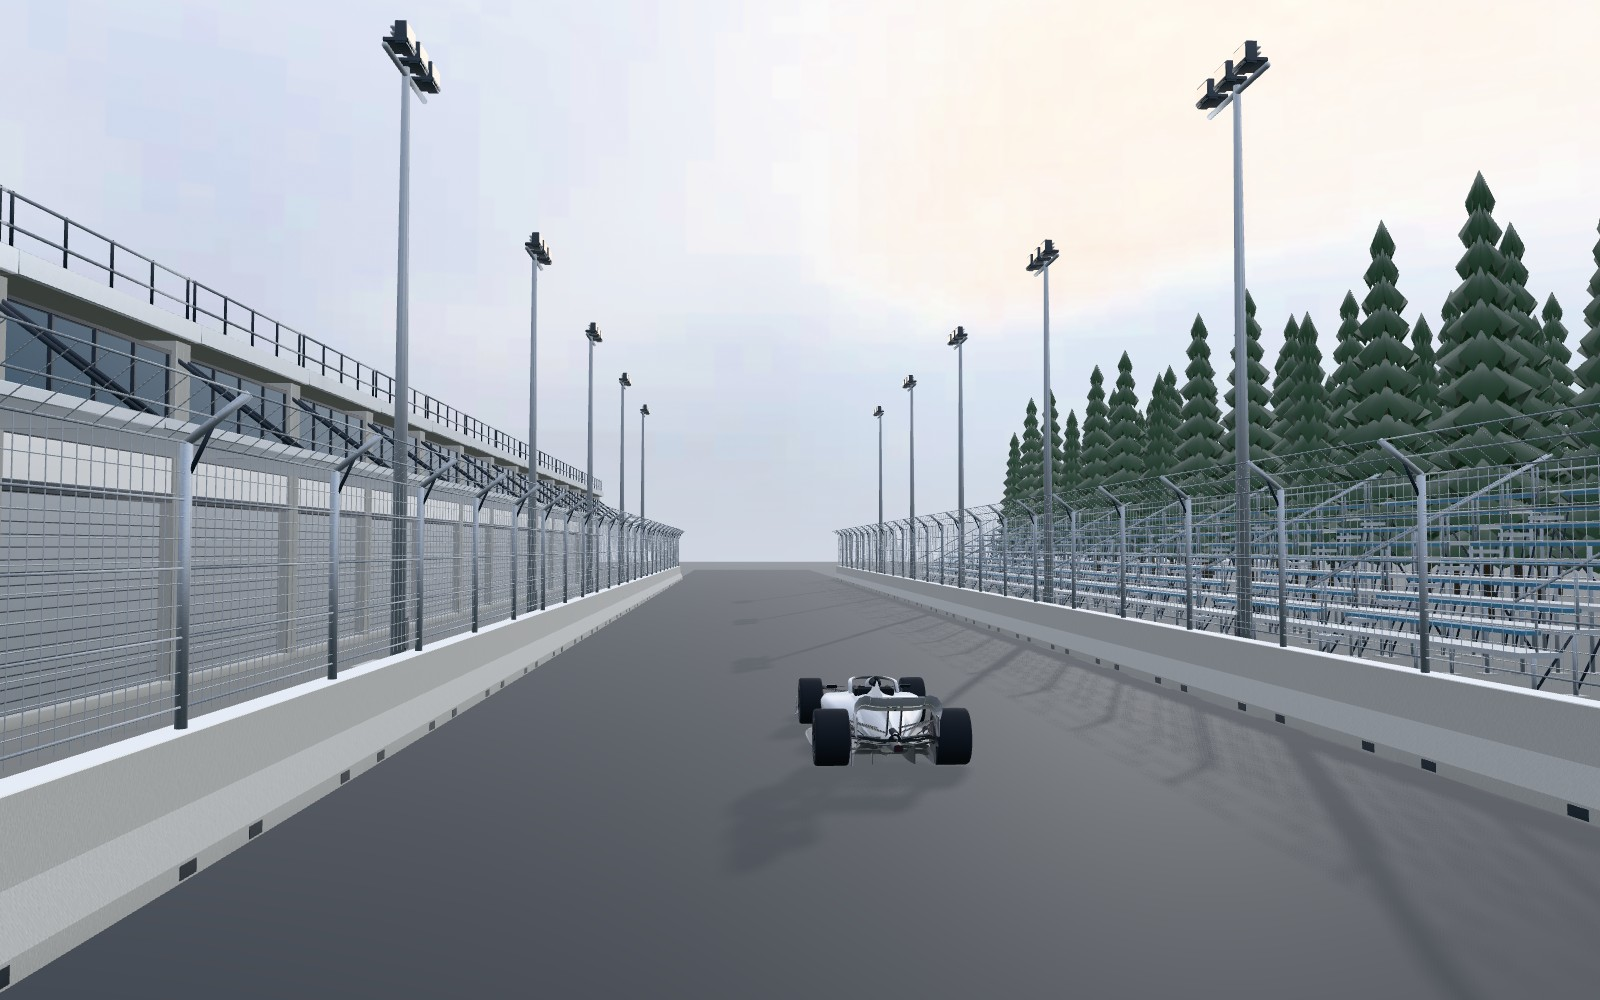
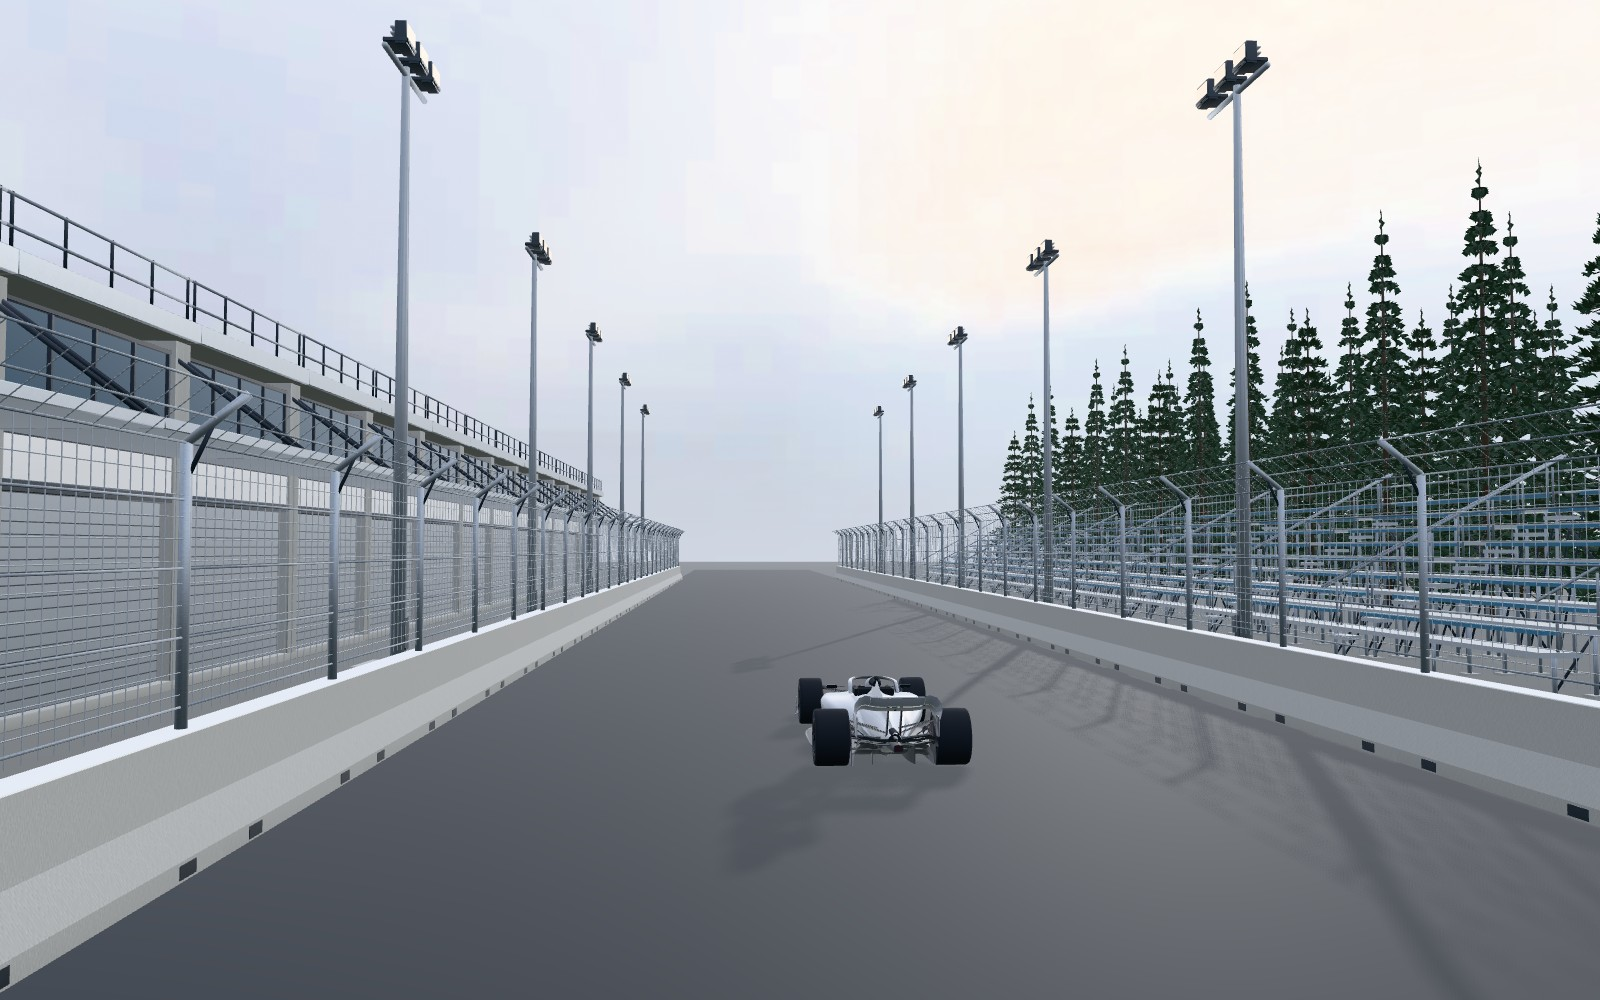
Refresh the forest evidence and kit sizes after the final export
Regenerate the sheets, transition record, forest assembly and transfer
reservation from the shipped files, describe the full-revolution gate,
and document the 1.2 kB catalogue overhead Monza carries.

Changed region(s): [[0.5625, 0.155, 1.0, 0.713]]

diff --git a/docs/circuit-model-kits.md b/docs/circuit-model-kits.md
@@ -14,12 +14,14 @@ Twelve original scripted props, each with High / Mobile / Far LODs. All sizes be
 | marina-hotel | 752 / 624 / 516 | 14620 / 11412 / 10724 |
 | marina-pavilion | 336 / 208 / 208 | 12352 / 9480 / 9464 |
 | hill-pit-garage | 1448 / 696 / 444 | 36808 / 19064 / 16040 |
-| forest-spruce | 7062 / 3254 / 40 | 255412 / 117228 / 39072 |
-| forest-fir | 5540 / 2564 / 40 | 206648 / 97712 / 37356 |
+| forest-spruce | 7062 / 3254 / 40 | 255412 / 117228 / 181136 |
+| forest-fir | 5540 / 2564 / 40 | 206648 / 97712 / 177272 |
 
-New kit: 1,148,792 bytes across all LODs. Complete catalogue: 3,571,312 bytes, below the existing 4,000,000 byte cap.
+New kit: 1,430,772 bytes across all LODs. Complete catalogue: 3,853,292 bytes, below the existing 4,000,000 byte cap. The Far trees carry two lossless 1152 × 384 atlases each (see Integration notes); that is where the extra 282 kB over the earlier lossy cards goes.
 
-The production build reports 8.87 MiB for the existing High first race and 3.69 MiB on Mobile. `kit-budget.json` reserves every new LOD plus both circuits’ skies at both tiers on top of that baseline: High 10.08 MiB, Mobile 4.90 MiB. This is a conservative model-asset allowance, not measured integrated Spa/Singapore traffic. Terrain, placement, light layout and circuit request telemetry remain with dressing.
+The production build reports 8.89 MiB for the existing High first race and 3.71 MiB on Mobile. `kit-budget.json` reserves every new LOD plus both circuits’ skies at both tiers on top of that baseline: High 10.37 MiB, Mobile 5.20 MiB, against 25 MB. This is a conservative model-asset allowance, not measured integrated Spa/Singapore traffic. Terrain, placement, light layout and circuit request telemetry remain with dressing.
+
+Monza loads none of these props, but it does pay for their catalogue entries: `props.catalog.json` is bundled into the client, and the twelve new entries add metadata only. Paired builds that swap only the catalogue measured +1,201 bytes of first-race transfer on both High (9,296,406 → 9,297,607) and Mobile (3,871,600 → 3,872,801), with identical prop inventories and prop bytes. Gzipped, the minified catalogue grows from 3,583 to 4,899 bytes. If Monza ever has to add zero bytes, split the catalogue per circuit; at this size it is not worth a second fetch.
 
 ## Evidence and reproduction
 
@@ -27,15 +29,16 @@ The production build reports 8.87 MiB for the existing High first race and 3.69 
 - `<id>-scale.jpg`: the unscaled 5.6 m car alongside every prop.
 - `kit-forest.jpg`: overcast inspection assembly; `kit-marina.jpg`: night inspection assembly. These are preview placements, using the game Environment, rather than circuit dressing.
 - `*-night.jpg`: floodlight/truss and marina sheets and car-scale frames under the night environment with a track-light preview key.
-- `forest-luma.json`: isolated swap-on/off material response at three azimuths. Fog, background and shadows are disabled only for this diagnostic. The capture fails above a 15% High/Far mean luma delta (measured 4.5–13.4%); normal evidence retains shadows.
-- `forest-transition.json` and `forest-<id>-transition.jpg`: High, Mobile and Far from the same camera at 0°, 30° and 60° (High | Mobile | Far | Mobile against Far: red Mobile only, blue Far only, white both), with mean luma, silhouette coverage and silhouette IoU. The capture fails if Mobile/Far coverage leaves 0.85–1.2 or either IoU drops below 0.6 (measured: coverage 1.04–1.12, IoU 0.62–0.77, lowest at 30° between card planes).
+- `forest-sweep.json`, `forest-<id>-<light>-worst-tone.jpg`: the High/Far tone gate. Each tree is isolated against black (fog, ground and shadow maps off, so only the material and normal response is measured) and turned through a full revolution in 30° steps under overcast, afternoon sun and the night preview key; mean silhouette luma of High and Far from the same camera must stay within 15% at every one of the 72 samples. Measured worst cases: spruce 5.8% / 8.9% / 10.2%, fir 10.8% / 10.4% / 11.2% (overcast / afternoon / night). The record hashes the shipped Far GLBs, and `forest-lighting.test.mjs` rejects it if they change. `forest-luma.json` repeats the overcast revolution from the preview capture.
+- `forest-<id>-<light>-distances.jpg`: High | Mobile | Far in the full scene (sky, fog, shadows) from a 1.5 m eye at 50 m (top row) and 260 m (bottom row), at that light's worst azimuth.
+- `forest-transition.json` and `forest-<id>-transition.jpg`: High, Mobile and Far from the same camera at 0°, 30° and 60° (High | Mobile | Far | Mobile against Far: red Mobile only, blue Far only, white both), with mean luma, silhouette coverage and silhouette IoU. The capture fails if Mobile/Far coverage leaves 0.85–1.2 or either IoU drops below 0.6 (measured: coverage 0.96–1.02, IoU 0.66–0.81, lowest at 30° between card planes). This 400 × 640 view is not tone-gated. Its luma has Far 4–27% above Mobile, because against the black isolation background the thin needle sprays' partly covered edge pixels pull the near trees' mean down while the cards' alpha-tested edges are hard. In the scene frames above, against sky, the swap is not visible at 260 m, where Far takes over; at 50 m the Far crown reads slightly fuller.
 - `kit-budget.json`: per-LOD counts/sizes and conservative transfer reservation. Run `node tools/props/kit-budget.mjs` after `npm run build`.
 
 Build with `npm run props:build -- --kits-only`. A full `npm run props:build` from an empty props folder (a clean export of this branch) succeeds and reproduces all 36 kit files and every slice 1 file byte for byte, except 23 crew and crowd files, which differ only in vertex order (same vertices, materials and AO, decoded; the documented export nondeterminism of the people). This branch leaves those people files as master has them. Kit meshes are named `<id>-<level>-<material>`, so a kits-only and a full build name them alike. Capture under the shared GPU lock using the commands in `tools/props/README.md`. All captures are inspected before handoff. The preview closes its server and browser in `finally`.
 
 ## Integration notes
 
-Street modules tile in 4 m lengths; place block and fence at the same ground pivot. The terminal post closes the end. Stands tile at 8 m, with eight crowd row attachments. Pit modules retain 6 m spacing and board/crew anchors. Trees are drooping branch tiers of separate needle sprays with gaps, and their Far cards are rasterised from those same triangles: colour with the near foliage's mean baked AO, and a half-resolution tangent-space normal atlas of the covering triangles, so cards shade like the near tree under any light. Keep the cards' own normals and normal map when instancing. The temporary stand's Far LOD keeps its population bounded at 1,552 triangles per 8 m module; crowd rows are attachments, not geometry. Both forest species are conifers, intended for varied forest-edge placements.
+Street modules tile in 4 m lengths; place block and fence at the same ground pivot. The terminal post closes the end. Stands tile at 8 m, with eight crowd row attachments. Pit modules retain 6 m spacing and board/crew anchors. Trees are drooping branch tiers of separate needle sprays with gaps, and their Far cards are projected from the exported High tree (needles with their baked AO, trunk and limbs). Each of the three crossed planes has a separate tile per face, and the card faces export signed tangents. Each tile is rasterised at twice its 192 × 384 resolution and box-filtered, so a texel carries the mean albedo and mean normal that a multisampled pixel of the near tree shows. Normals snap to a 128-direction codebook, and both atlases are lossless WebP; lossy WebP blurred the normals and darkened the cards' shadowed side by up to 43%. The cards therefore shade like the near tree under any light. Keep the cards' own normals and normal map when instancing. The temporary stand's Far LOD keeps its population bounded at 1,552 triangles per 8 m module; crowd rows are attachments, not geometry. Both forest species are conifers, intended for varied forest-edge placements.
 
 Window occupancy is a geometric emissive mask through the named `window-emissive-mask` material. Floodlight anchors expose emitter material and local aim. These emitters need actual local light slots in the night renderer to light the road. Facades are generic backdrops; no real landmarks or brands are reproduced.
 

diff --git a/tools/props/README.md b/tools/props/README.md
@@ -20,17 +20,19 @@ The geometry and dimensions are scripted; byte-identical exports are not guarant
 
 ## Overcast and night circuit kits
 
-`npm run props:build -- --kits-only` regenerates the twelve circuit kit props while preserving the previously shipped props. The normal full build includes both sets. Both paths refresh catalogue measurements and manifest hashes. All new files together are below 0.5 MB; the unchanged complete-kit ceiling is 4 MB.
+`npm run props:build -- --kits-only` regenerates the twelve circuit kit props while preserving the previously shipped props. The normal full build includes both sets. Both paths refresh catalogue measurements and manifest hashes. The generated size report is `docs/evidence/m2-models/kit-budget.json`; the unchanged complete-kit ceiling is 4 MB. Rebuild the report after the final export rather than retaining an older transfer estimate.
 
 - `street-block`, `street-fence`: 4 m tiling along Z. Place both at ground height; the fence socket extends through the 1.15 m block cap. `street-fence-end` closes the final post at the end of a run. Mesh spacing is reduced with LOD, matching the existing catch-fence convention.
 - `floodlight-mast`: 13 m mast, ballast, service hatch, crossarm, three panel housings with rear cooling fins on High. `lighting-truss`: 4 m suspended box truss with two panels and support anchors. Lamp attachments refer to `floodlight-emitter` and provide a downward direction in delivery coordinates; normalize it when constructing local lights. Emission remains stock glTF PBR; it does not illuminate the road by itself.
 - `temporary-grandstand`: 8 m scaffold bay, eight bench rows, stair aisle, guards, sole plates and bracing. Row attachments give count/spacing and seat contact height using the existing crowd contract.
 - `marina-office`, `marina-hotel`, `marina-pavilion`: generic 7/9/2-storey backdrops, no real landmarks. Window occupancy is a deterministic geometric mask: lit panes use `window-emissive-mask`, dark panes use glazing. This avoids a new runtime shader or texture fetch. Keep these at backdrop distance.
 - `hill-pit-garage`: 6 m bay with the existing garage, board and crew anchors, a deeper stayed canopy, cool cladding and a service roof volume.
-- `forest-spruce`, `forest-fir`: 18/15 m trees. Near and Mobile use irregular needle-bough geometry; Far uses two crossed alpha-tested 256 px impostor cards. Atlas colour is physical albedo, without baked sunlight. Preserve alpha cutoff, vertex AO and the authored crown normals. Near foliage is double sided; the cards use explicit opposing faces so backface normal inversion does not darken the canopy. Far is 36 triangles including the trunk. Trees should vary in yaw/scale when placed.
+- `forest-spruce`, `forest-fir`: 18/15 m trees. Near and Mobile use irregular needle-bough geometry; Far uses three crossed alpha-tested planes, with separate 192 × 384 atlas tiles for all six opposing faces, rasterised at 2× and box-filtered. Atlas colour is physical albedo with the High tree's baked AO, without baked sunlight. Both atlases ship as lossless WebP, with normals on a 128-direction codebook; do not re-encode them lossy, since that darkens the shadowed side by up to 43%. Preserve alpha cutoff and the exported signed tangents and normal atlas. Near foliage is double sided; the cards use explicit opposing faces so backface normal inversion does not darken the canopy. Far is 40 triangles including the trunk. Trees should vary in yaw/scale when placed.
 
 `PROP_LIGHT=overcast PROP_ASSEMBLY=forest flock ~/.cache/undercut/gpu.lock npm run props:preview -- street-,floodlight-,lighting-,temporary-,marina-,hill-,forest-` captures sheets (High above Far, four rotations) and an inspection assembly with the game Environment. Set `PROP_LIGHT=night PROP_ASSEMBLY=marina` for night evidence; its preview key represents track floodlighting. Scale frames include the unscaled car. No preview placements enter game world data.
 
 `node tools/props/kit-budget.mjs` after `npm run build` records per-prop triangles/bytes and a conservative High/Mobile transfer reservation in `docs/evidence/m2-models/kit-budget.json`. It includes every new LOD and both sky tiers on top of the existing first race. Actual Spa/Singapore request telemetry awaits the dressing integration.
 
-The forest luma check isolates each tree against black at three azimuths, with fog, ground and shadow maps disabled to measure material/normal response without background contamination or shadow cascade differences. It compares mean silhouette luma of High and Far at identical camera positions and fails above a 25% change. Normal scene captures retain shadows. The shader remains stock PBR, so sky/time changes still relight both levels.
+The forest luma check isolates each tree against black through a complete revolution in 30° steps under overcast, afternoon sun and the night preview key, with fog, ground and shadow maps disabled to measure material/normal response without background contamination or shadow cascade differences. It compares mean silhouette luma of High and Far at identical camera positions and fails above a 15% change. Normal scene captures retain shadows. The shader remains stock PBR, so sky/time changes still relight both levels.
+
+Run `flock ~/.cache/undercut/gpu.lock node tools/props/sweep.mjs` for the complete lighting gate, worst-angle High/Far frames and High | Mobile | Far trackside frames at 50 m and 260 m. The sweep record hashes the shipped Far GLBs; unit tests reject stale evidence, missing directions, failing samples, wrongly assigned opposing-face tiles, wrong tangent/UV handedness and lossy card atlases. Each texel averages only the facets inside it (the 2× box filter), matching what multisampling does to the near tree; normals of opposing faces are never averaged together.

diff --git a/docs/STATUS.md b/docs/STATUS.md
@@ -233,4 +233,5 @@ Keys: arrows or WASD drive, Q/E shift (gears are automatic by default), F asks f
 - Street barrier and fence modules tile along +Z at 4 m; the terminal post closes a run. Temporary scaffold stands tile at 8 m and expose eight crowd rows. Hill pit garages use the existing 6 m team-board contract.
 - Generic marina office, hotel and pavilion silhouettes carry deterministic lit/dark window masks as separate PBR material regions. No landmark, logo or third-party asset is included. Lamp attachments expose emitter material and downward aim; the dressing renderer must provide actual local light illumination (emission alone lights only the panel).
 - Forest spruce and fir use near bough geometry and alpha-tested crossed-card atlases with shared physical albedo, no baked light direction. The preview checks the LOD swap luminance under identical lighting. These supplement the existing parkland tree system; fixing that system's existing Monza brightness mismatch remains with dressing.
+- Far tree cards: lossless WebP atlases (normals on a 128-direction codebook, 192 × 384 tiles box-filtered from 2×) instead of lossy ones. This costs about 140 kB more per species (Far 177–181 kB; complete kit 3.85 of 4 MB) but is the only encoding tried that holds the 15% tone gate: lossy quality 90 darkened the shadowed side by up to 43%, and half-resolution normals by up to 25%. The full-revolution gate is measured as the review did it (multisampled, isolated against black); at the smaller transition view Far reads 4–27% above Mobile for the reason given in `docs/circuit-model-kits.md`.
 - Transfer reservation adds all new levels and both circuits' sky tiers to the existing first race, without subtracting replaced assets. It is deliberately conservative; actual integrated circuit request telemetry belongs to the placement pass.
